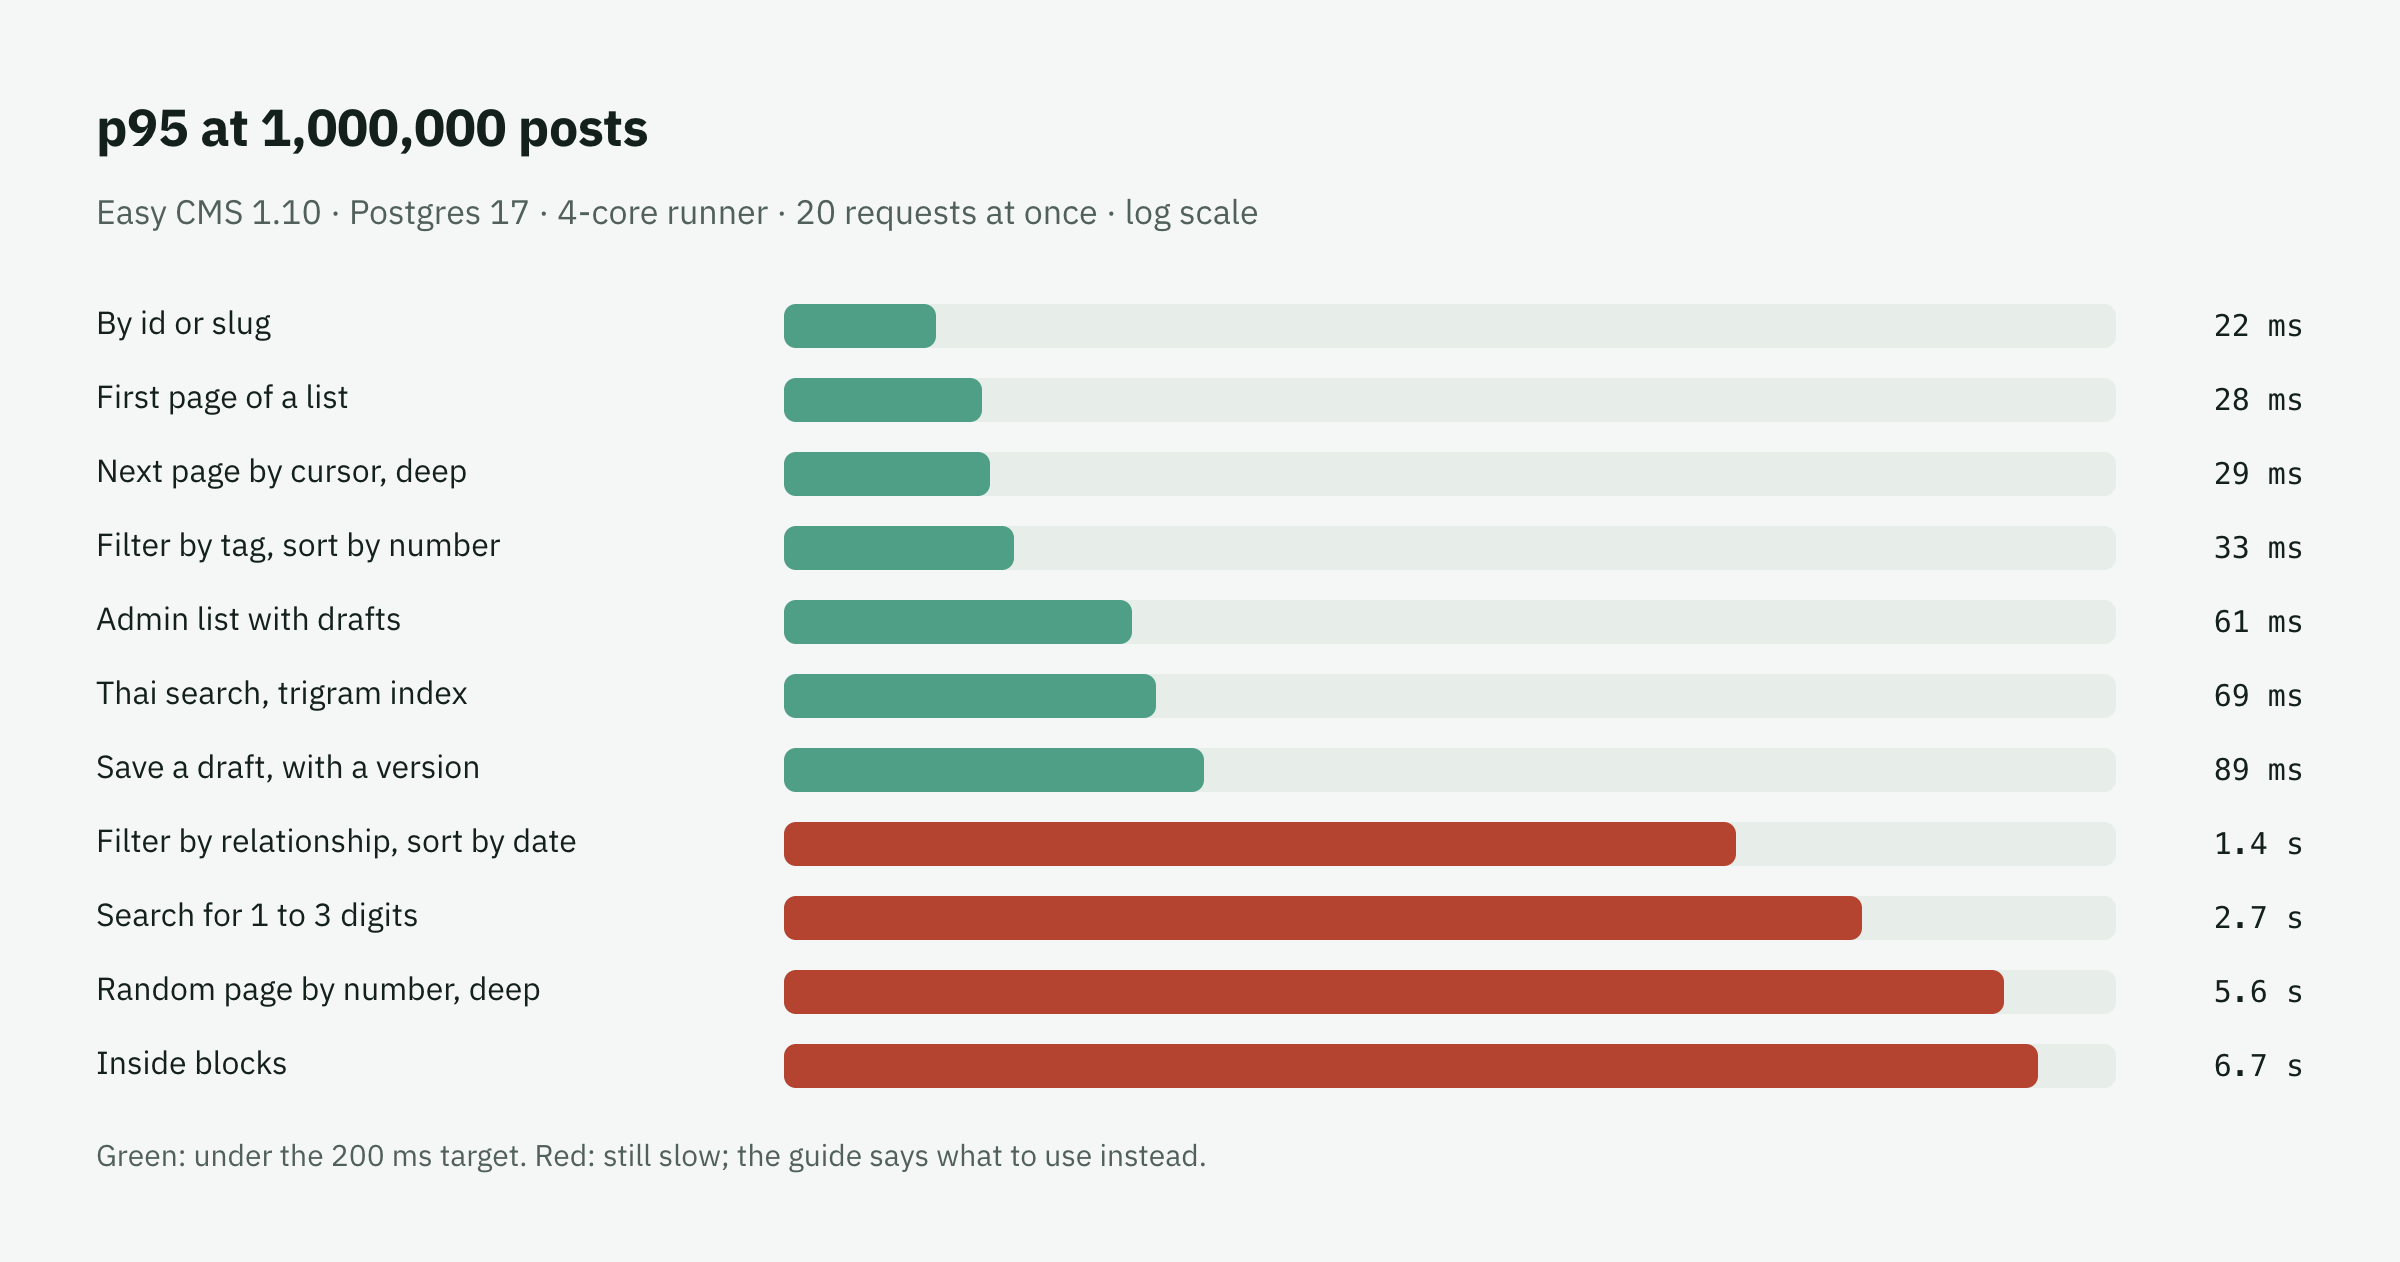
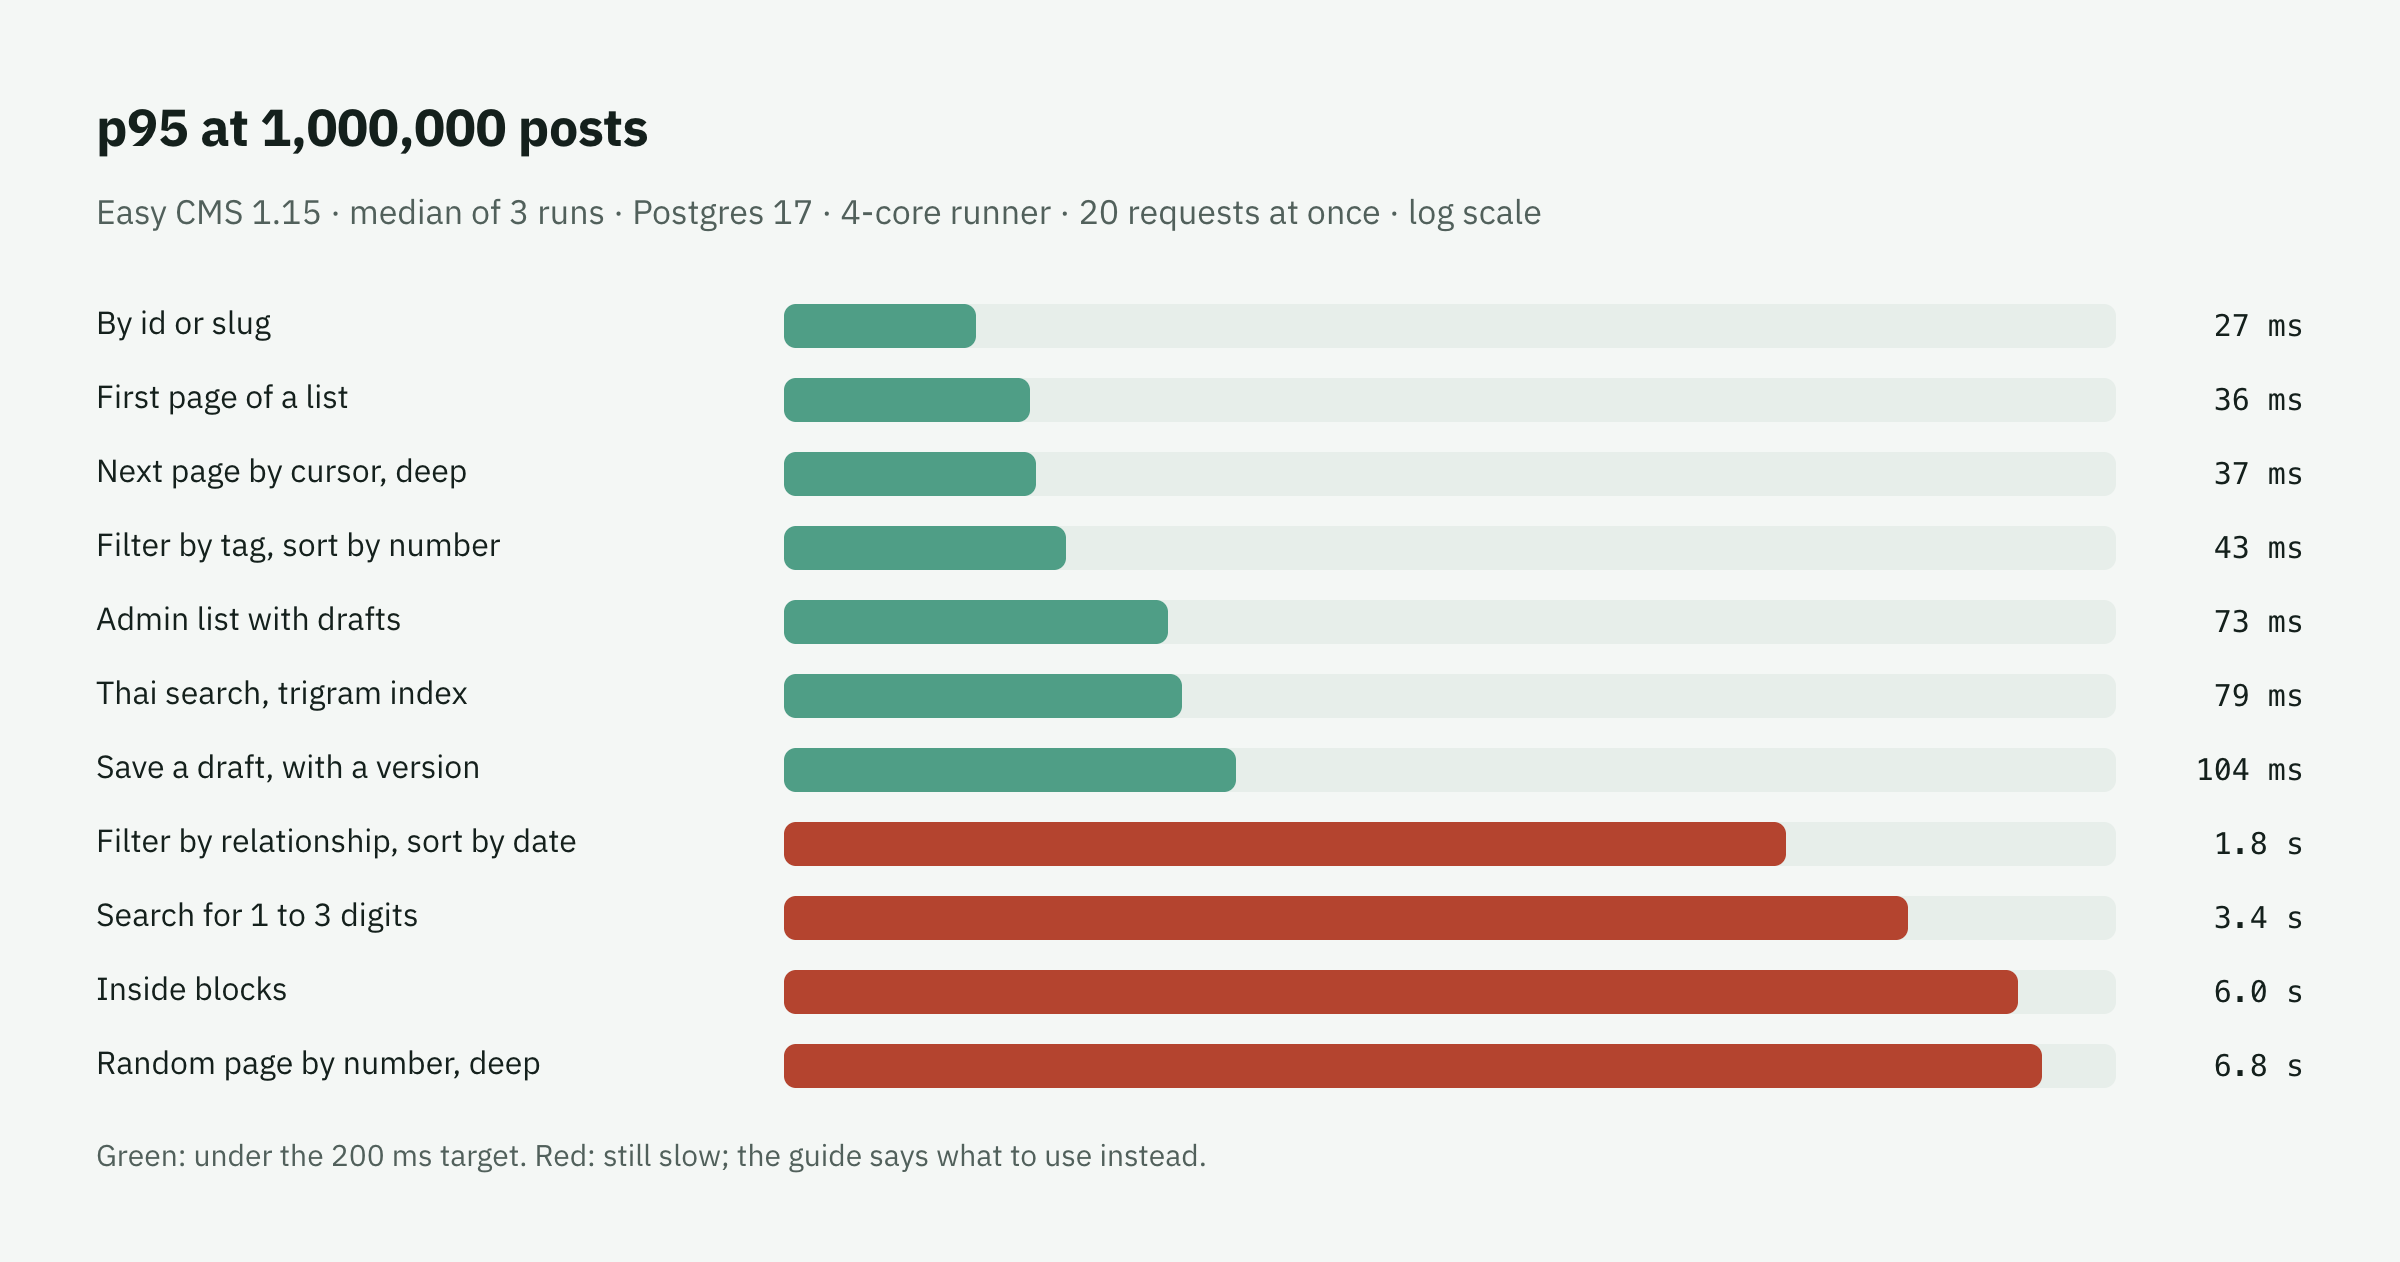
chore: Easy CMS 1.15.0, and the 1M numbers as the median of three runs
- Every Easy CMS package goes from 1.14.0 to 1.15.0 (no migration: the
  site leaves telemetry off). The header shows v1.15, and 1.15.0 joins
  the changelog seed.
- The home page, the Scale 1M article (text, chart and cover) and the
  1.13 release post use the median of three Perf runs on 1.15 instead
  of one fast run on 1.10: 27, 37 and 79 ms instead of 22, 29 and 69.
- `pnpm seed --update-drafts=<slug,…>` rewrites the named posts from the
  seed while they are still drafts, so the drafts already on Turso can
  take the new numbers.

diff --git a/lib/home-copy.ts b/lib/home-copy.ts
@@ -130,11 +130,11 @@ export const HOME_COPY: Record<Locale, HomeCopy> = {
       text: 'Every night a load test runs Easy CMS against 1,000,000 posts. The times are p95: 95% of requests finish faster.',
       stats: [
         ['1,000,000', '', 'posts in one collection'],
-        ['22', 'ms', 'a post by id or slug'],
-        ['29', 'ms', 'the next page by cursor, however deep'],
-        ['69', 'ms', 'Thai text search with a trigram index'],
+        ['27', 'ms', 'a post by id or slug'],
+        ['37', 'ms', 'the next page by cursor, however deep'],
+        ['79', 'ms', 'Thai text search with a trigram index'],
       ],
-      setup: 'Easy CMS 1.10 · Postgres 17 · GitHub runner, 4 cores · 20 requests at once · 27 Oct 2026',
+      setup: 'Easy CMS 1.15 · median of 3 runs · Postgres 17 · GitHub runner, 4 cores · 20 requests at once · 28 Oct 2026',
       limits: 'Not everything is fast yet: a page picked by number deep in the list takes seconds (use `cursor` instead), and so do queries inside blocks. The full results list them.',
       link: 'All results and how they are measured',
       page: 'databases#at-1000000-posts',
@@ -256,11 +256,11 @@ export const HOME_COPY: Record<Locale, HomeCopy> = {
       text: 'ทุกคืนมี load test รัน Easy CMS กับบทความ 1,000,000 รายการ เวลาด้านล่างเป็น p95: 95% ของ request เสร็จเร็วกว่านี้',
       stats: [
         ['1,000,000', '', 'บทความใน collection เดียว'],
-        ['22', 'ms', 'อ่านบทความตาม id หรือ slug'],
-        ['29', 'ms', 'หน้าถัดไปด้วย cursor ลึกแค่ไหนก็ได้'],
-        ['69', 'ms', 'ค้นข้อความภาษาไทยด้วย trigram index'],
+        ['27', 'ms', 'อ่านบทความตาม id หรือ slug'],
+        ['37', 'ms', 'หน้าถัดไปด้วย cursor ลึกแค่ไหนก็ได้'],
+        ['79', 'ms', 'ค้นข้อความภาษาไทยด้วย trigram index'],
       ],
-      setup: 'Easy CMS 1.10 · Postgres 17 · GitHub runner 4 core · request พร้อมกัน 20 · 27 ต.ค. 2026',
+      setup: 'Easy CMS 1.15 · มัธยฐานของ 3 รอบ · Postgres 17 · GitHub runner 4 core · request พร้อมกัน 20 · 28 ต.ค. 2026',
       limits: 'ยังไม่ได้เร็วทุกอย่าง: เปิดหน้าตามเลขหน้าลึกๆ ใช้เวลาหลายวินาที (ใช้ `cursor` แทน) และ query ภายในบล็อกก็เช่นกัน ผลทั้งหมดบอกไว้ครบ',
       link: 'ดูผลทั้งหมดและวิธีวัด',
       page: 'databases#at-1-000-000-posts',

diff --git a/lib/site.ts b/lib/site.ts
@@ -1,7 +1,7 @@
 /** Links and facts used across the site. */
 export const GITHUB_URL = 'https://github.com/maritonx/easy-cms'
 export const NPM_URL = 'https://www.npmjs.com/org/easy-cms'
-export const VERSION = '1.14'
+export const VERSION = '1.15'
 /** This site's own source: it is built with Easy CMS. */
 export const SITE_REPO_URL = 'https://github.com/maritonx/easy-cms-website'
 export const DISCUSSIONS_URL = `${GITHUB_URL}/discussions`

diff --git a/content/posts/scale-1m.md b/content/posts/scale-1m.md
@@ -48,7 +48,7 @@ const page = await cms.find('posts', { cursor: '', limit: 20 })
 const next = await cms.find('posts', { cursor: page.nextCursor, limit: 20 })
 ```
 
-The cursor encodes the sort values of the last row and belongs to its query: the same `where`, `sort` and locale, or it is refused. The next page by cursor, deep in the list, has a p95 of 29 ms. A random page by number deep in the list is still 5.6 s, and 5.9 s without totals, which proves the time goes to skipping rows, not counting them.
+The cursor encodes the sort values of the last row and belongs to its query: the same `where`, `sort` and locale, or it is refused. The next page by cursor, deep in the list, has a p95 of 37 ms. A random page by number deep in the list is still 6.8 s, and 7.3 s without totals, which proves the time goes to skipping rows, not counting them.
 
 The admin keeps page numbers, because editors use them. API clients get `maxPage`, which caps how deep they may page by number and points them to `cursor`.
 
@@ -62,9 +62,9 @@ A trigram index can. `index: 'trigram'` on a text field makes a GIN `pg_trgm` in
 { name: 'title', type: 'text', localized: true, index: 'trigram' }
 ```
 
-A Thai search at a million posts now has a p95 of 69 ms. Two caveats came out of the test:
+A Thai search at a million posts now has a p95 of 79 ms. Two caveats came out of the test:
 
-- **Trigrams need three characters.** A search for one or two characters can't use the index and reads every row. A search for 1 to 3 digits still has a p95 of 2.7 s.
+- **Trigrams need three characters.** A search for one or two characters can't use the index and reads every row. A search for 1 to 3 digits still has a p95 of 3.4 s.
 - **The database's `LC_CTYPE` matters.** With `C`, `pg_trgm` doesn't treat Thai letters as letters and the index finds nothing useful. Easy CMS now warns at startup when that is the case.
 
 ## Fix 4: let the CDN answer (1.11)
@@ -93,24 +93,24 @@ The first version normalized text with NFKC before splitting, as you do to make 
 
 ## The numbers now
 
-On 1.10, with 20 concurrent requests per kind:
+On 1.15, with 20 concurrent requests per kind, as the median of three runs (each run gets a different runner, and the same request can differ by about 40% between them):
 
-- A post by id or slug: **22 ms** (p95)
-- The first page of a list: **28 ms**
-- The next page by cursor, deep in the list: **29 ms**
-- Thai `like` search with a trigram index: **69 ms**
-- Saving a draft, with a version: **89 ms**
+- A post by id or slug: **27 ms** (p95)
+- The first page of a list: **36 ms**
+- The next page by cursor, deep in the list: **37 ms**
+- Thai `like` search with a trigram index: **79 ms**
+- Saving a draft, with a version: **104 ms**
 
-![Bar chart of p95 times at 1,000,000 posts on a log scale: lookups, cursors and Thai search under 100 ms; relationship filters, digit searches, deep pages and queries inside blocks between 1.4 and 6.7 seconds](/images/blog/scale-1m/diagram-1.png)
+![Bar chart of p95 times at 1,000,000 posts on a log scale: lookups, cursors and Thai search under 110 ms; relationship filters, digit searches, deep pages and queries inside blocks between 1.8 and 6.8 seconds](/images/blog/scale-1m/diagram-1.png)
 
-Under 200 editors, reads went from about 30 s to 17 s at p95. That is better, and still far from good.
+Under 200 editors, reads went from about 30 s to 18 s at p95. That is better, and still far from good.
 
 ## What is still slow
 
-- **Filter by a relationship, sort by date:** p95 1.4 s.
-- **Queries inside blocks** (`layout.blockType`): p95 6.7 s. Blocks are stored as JSON; there is no index for that path yet.
-- **Deep pages by number:** 5.6 s. Use cursors.
-- **Saves under the mixed load:** p95 30 s, because they wait for connections the slow reads hold.
+- **Filter by a relationship, sort by date:** p95 1.8 s.
+- **Queries inside blocks** (`layout.blockType`): p95 6.0 s. Blocks are stored as JSON; there is no index for that path yet.
+- **Deep pages by number:** 6.8 s. Use cursors.
+- **Saves under the mixed load:** p95 31 s, because they wait for connections the slow reads hold.
 
 The [Databases guide](/docs/databases#at-1000000-posts) lists all of it, and every number in this post comes from there or from the workflow. Measuring first changed what I built. I had expected the database to be the limit. Instead it was a handful of query shapes holding connections, and each fix only counted once the nightly number moved.
 
